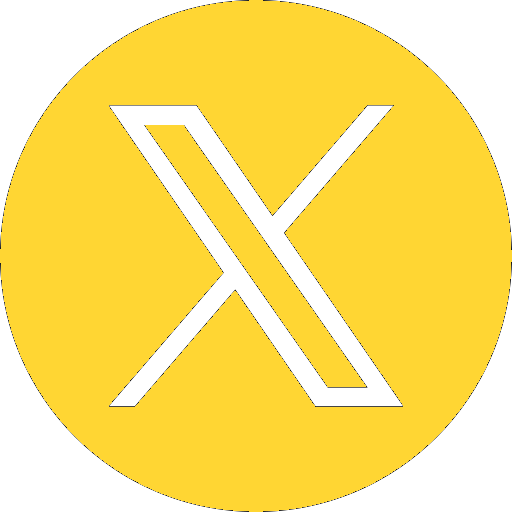
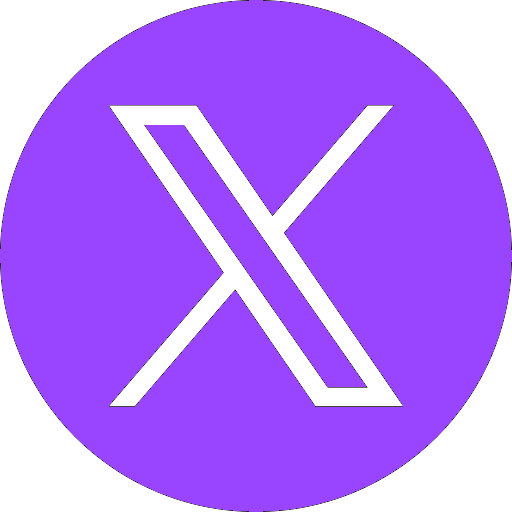
Add files via upload

diff --git a/page4.js b/page4.js
@@ -11,11 +11,11 @@ __SYD["page4"] = () => {
             [
                 $("h2", {
                 style: "font-size:2.5rem; font-weight:700; color:#ffffff; margin-bottom:20px;"
-                }, ["Why Nice $xingsword"]),
+                }, ["Why $xingsworld"]),
                 
                 $("p", {
                 style: "font-size:1.1rem; line-height:1.6; color:#ffffff; max-width:800px;"
-                }, ["From TikTok to the blockchain — Mr. Nice has captured hearts by building incredible homes for his pets. Now, that same spirit of creativity, kindness, and fun lives on in $NICE, the meme coin for dreamers and builders."])
+                }, ["Xing Zhilei built Xing’s World for his son — a playful universe of tiny houses and pets. At the heart of it is Mr. Nice, the cat who stole the show. Now his spirit lives on in MR NICE $xingsworld, a coin made for fun, community, and good vibes."])
             ]),
 
             $("div", {
@@ -34,7 +34,7 @@ __SYD["page4"] = () => {
                             },[],{genericStyle:["bg_cover"]}),
                             $("span", {
                                 style: "font-weight:600;"
-                            }, ["Inspired by Viral Culture – Born from the trend that everyone’s talking about"])
+                            }, ["Built on Culture – Straight from TikTok virality to the blockchain."])
                         ]),
                         
                         $("li",
@@ -46,7 +46,7 @@ __SYD["page4"] = () => {
                             },[],{genericStyle:["bg_cover"]}),
                             $("span", {
                                 style: "font-weight:600;"
-                            }, ["Community-Driven – Powered by the people, growing stronger together."])
+                            }, ["Community-Powered – No big suits, just people having fun and growing together."])
                         ]),
                         
                         $("li",
@@ -70,7 +70,7 @@ __SYD["page4"] = () => {
                             },[],{genericStyle:["bg_cover"]}),
                             $("span", {
                                 style: "font-weight:600;"
-                            }, ["Built for Fun – Memes, rewards, and a movement you can actually enjoy."])
+                            }, ["No Overthinking – It’s memes, it’s vibes, it’s good energy."])
                         ]),
 
                         $("li",
@@ -82,7 +82,7 @@ __SYD["page4"] = () => {
                             },[],{genericStyle:["bg_cover"]}),
                             $("span", {
                                 style: "font-weight:600;"
-                            }, ["Giving Back – Future plans to support pet shelters and creative communities."])
+                            }, ["For the People (and Pets) – A coin that’s about fun first, charts second."])
                         ])
                     ])
                 ]),

diff --git a/page2.js b/page2.js
@@ -59,21 +59,21 @@ __SYD.buyNowBtn = () =>{
 
 
 __SYD.about_text = () =>{
-    return $('p',{style:`border-right:5px solid #000000;border-bottom:5px solid #000000;font-size:${__p(['page2' , '__font'],{2:'20px'})['2']};line-height: unset;width:100%;max-width:800px;text-align:center;font-weight:100;padding:${__p(["page2" , "__flex"],"row") === "row" ? "50px" : "20px"};background:#4AB6E8;border-radius:30px;color:#ffffff;display:flex;flex-direction:column;gap:15px;`},[
+    return $('p',{style:`border-right:5px solid #000000;border-bottom:5px solid #000000;font-size:${__p(['page2' , '__font'],{2:'20px'})['2']};line-height: unset;width:100%;max-width:800px;text-align:center;font-weight:100;padding:${__p(["page2" , "__flex"],"row") === "row" ? "50px" : "20px"};background:#14F195;border-radius:30px;color:#000000;display:flex;flex-direction:column;gap:15px;`},[
         $(
             "p",
             {
                 style:"font-size:20px;line-height:50px;border-bottom:1px solid;text-align:left;"
             }
             ,[
-                "About $xingsword"
+                "About $xingsworld"
             ]
         ),
         $("p" , {style:`text-align:left;font-size:16px;`} , [
-            `$xingsword ain’t your boring, suit-and-tie crypto project. It’s a meme coin inspired by Mr. Nice, the dude who went viral for building crazy houses for his pets. Just like him, we’re all about good vibes, creativity, and building something cool together`
+            `Mr. Nice isn’t just any cat—he’s the fluffy superstar who somehow ended up with his own houses, shops, and even VIP rooms (because why not?). While most cats are happy with a cardboard box, Mr. Nice lives in a world of mini-mansions built just for him. From tiny supermarkets to little cinemas, he explores it all with the calm confidence of someone who knows he’s in charge.`
         ]),
         $("p" , {style:`text-align:left;font-size:16px;`} , [
-            `This coin is for the people who love memes, community, and maybe a little moon-madness 🚀. No overcomplicated promises — just a fun ride, a strong fam, and the chance to be part of the next big internet story.`
+            `This site is our little corner of the internet dedicated to his adventures, his lifestyle, and, honestly, just the pure comedy of watching a cat live better than most humans. Welcome to the world of Mr. Nice—you’re in for a treat.`
         ]),
         __SYD.contactBtn(),
         __SYD.copyCA()

diff --git a/page3.js b/page3.js
@@ -5,7 +5,7 @@ __SYD.page3 = function()
     return $(
         "div",
         {
-            style:"display:flex;flex-direction:column;gap:20px;width:100%;padding:15px;padding-bottom:50px;padding-top:80px;font-family:font2;position:relative;min-height:100vh;width:100vw;position:relative;background-color:#4AB6E8;",
+            style:"display:flex;flex-direction:column;gap:20px;width:100%;padding:15px;padding-bottom:50px;padding-top:80px;font-family:font2;position:relative;min-height:100vh;width:100vw;position:relative;background-color:#14F195;",
             id:'about'
         },
         [
@@ -36,7 +36,7 @@ __SYD.canva1 = function()
 {
     return $(
         "canvas",
-        {style:`height:${__p(["page3","mobile"],false)?"300px":"400px"};width:${__p(["page3","mobile"],false)?"100%":"55%"};background:#FFD633;border:5px solid #000;border-radius:20px;align-self:flex-start;`},[],{type:"canva1"}
+        {style:`height:${__p(["page3","mobile"],false)?"300px":"400px"};width:${__p(["page3","mobile"],false)?"100%":"55%"};background:#9945FF;border:5px solid #000;border-radius:20px;align-self:flex-start;`},[],{type:"canva1"}
     )
 }
 
@@ -44,6 +44,6 @@ __SYD.canva2 = function()
 {
     return $(
         "canvas",
-        {style:`height:${__p(["page3","mobile"],false)?"300px":"500px"};width:${__p(["page3","mobile"],false)?"100%":"55%"};max-width:${__p(["page3","mobile"],false)?"unset":"500px"};background:#FFD633;border:5px solid #000;border-radius:20px;align-self:flex-end;transform:${__p(["page3","mobile"],false)?"unset":"translateY(-30px)"};`},[],{type:"canva2"}
+        {style:`height:${__p(["page3","mobile"],false)?"300px":"500px"};width:${__p(["page3","mobile"],false)?"100%":"55%"};max-width:${__p(["page3","mobile"],false)?"unset":"500px"};background:#9945FF;border:5px solid #000;border-radius:20px;align-self:flex-end;transform:${__p(["page3","mobile"],false)?"unset":"translateY(-30px)"};`},[],{type:"canva2"}
     )
 }

diff --git a/navBar.js b/navBar.js
@@ -6,7 +6,7 @@ __SYD["navbar"] = () => {
     "nav",
     {
       style:
-        `display:flex;justify-content:${__p(["navbar" , "mobile"],false)?"space-between":"center"};align-items:center;padding:15px 40px;background-color:#FFD633;color:#000000;position:fixed;top:${__p(["navbar" , "float"],false) ? "10px" : "0px"};left:50%;transform:translateX(-50%);width:${__p(["navbar" , "float"],false) ? "calc(100% - 20px)" : "100%"};z-index:99999;gap:30px;border-radius:${__p(["navbar" , "float"],false) ? "20px" : "0px"};border-bottom:2px solid #000;`,
+        `display:flex;justify-content:${__p(["navbar" , "mobile"],false)?"space-between":"center"};align-items:center;padding:15px 40px;background-color:#9945FF;color:#000000;position:fixed;top:${__p(["navbar" , "float"],false) ? "10px" : "0px"};left:50%;transform:translateX(-50%);width:${__p(["navbar" , "float"],false) ? "calc(100% - 20px)" : "100%"};z-index:99999;gap:30px;border-radius:${__p(["navbar" , "float"],false) ? "20px" : "0px"};border-bottom:2px solid #000;`,
     },
     [
       // Left: logo
@@ -30,7 +30,7 @@ __SYD["navbar"] = () => {
                     { style: __sC["nav_links"]({method:"add",style:{alignItems:`${__p(["navbar" , "mobile"],false)?"flex-start":"center"}`,flexDirection:`${__p(["navbar" , "mobile"],false)?"column":"row"}`,width:"100%",justifyContent:"center"}}) },
                     [
                         $("a", { href: "#about" , style:__sC["a_style"]()}, ["About"]),
-                        $("a", { href: "#why" , style:__sC["a_style"]()}, ["Why $xingsword"]),
+                        $("a", { href: "#why" , style:__sC["a_style"]()}, ["Why $xingsworld"]),
                         // $("a", { href: "#" , style:__sC["a_style"]()}, ["Why Us"]),
                         // $("a", { href: "#" , style:__sC["a_style"]()}, ["Tokenomics"]),
                         // $("a", { href: "#" , style:__sC["a_style"]()}, ["Roadmap"]),

diff --git a/page5.js b/page5.js
@@ -5,7 +5,7 @@ __SYD.page5 = function()
     return $(
         "div",
         {
-            style:"display:flex;justify-content:center;align-items:center;gap:20px;width:100%;padding:15px;padding-bottom:50px;padding-top:80px;font-family:font2;position:relative;min-height:100vh;width:100vw;position:relative;background-color:transparent;background-image:url(./assets/p5.png);",
+            style:"display:flex;justify-content:center;align-items:flex-start;gap:20px;width:100%;padding:15px;padding-bottom:50px;padding-top:80px;font-family:font2;position:relative;min-height:100vh;width:100vw;position:relative;background-color:transparent;background-image:url(./assets/p5.png);",
             id:'about'
         },
         [
@@ -25,7 +25,7 @@ __SYD.page5 = function()
 }
 
 __SYD.p5_text = () =>{
-    return $('p',{style:`height:fit-content;border-right:5px solid #000000;border-bottom:5px solid #000000;font-size:${__p(['page5' , '__font'],{2:'20px'})['2']};line-height: unset;width:100%;max-width:800px;text-align:center;font-weight:100;padding:${__p(["page5" , "__flex"],"row") === "row" ? "50px" : "20px"};background:#FFD633;border-radius:30px;color:#000000;display:flex;flex-direction:column;gap:15px;`},[
+    return $('p',{style:`height:fit-content;border-right:5px solid #000000;border-bottom:5px solid #000000;font-size:${__p(['page5' , '__font'],{2:'20px'})['2']};line-height: unset;width:100%;max-width:800px;text-align:center;font-weight:100;padding:${__p(["page5" , "__flex"],"row") === "row" ? "50px" : "20px"};background:#9945FF;border-radius:30px;color:#000000;display:flex;flex-direction:column;gap:15px;`},[
         $("p" , {style:`text-align:left;font-size:16px;`} , [
             `That’s the story. $NICE is here, and it’s only getting bigger. We’re not just another coin — we’re a whole mood.`
         ]),

diff --git a/sliderEl.js b/sliderEl.js
@@ -18,7 +18,7 @@ __SYD.sliderMain = () =>{
             $(
                 'div',
                 {
-                    style:'height:100%;min-width:fit-content;background:#fdd523;display:flex;column-gap:30px;padding:0 15px;',
+                    style:'height:100%;min-width:fit-content;background:#9945FF;display:flex;column-gap:30px;padding:0 15px;',
                     class:"slider_anime"
                 },
                 [
@@ -47,7 +47,7 @@ __SYD.sliderMain2 = () =>{
             $(
                 'div',
                 {
-                    style:'height:100%;min-width:fit-content;background:#fdd523;display:flex;column-gap:30px;padding:0 15px;',
+                    style:'height:100%;min-width:fit-content;background:#9945FF;display:flex;column-gap:30px;padding:0 15px;',
                     class:"slider_anime"
                 },
                 [
@@ -65,8 +65,8 @@ __SYD.addNavElement = () =>{
             style:'height:100%;width:fit-content;display:flex;column-gap:15px;align-items:center'
         },
         [
-            $('img',{height:'50px',width:'50px',alt:'dog',style:"border-radius:50%;min-height:50px;min-width:50px;",src:'./assets/p1.png'},[]),
-            $('h2',{style:'font-weight:900;width:max-content;'},['$xingsword'])
+            $('div',{height:'50px',width:'50px',style:"border-radius:50%;min-height:50px;min-width:50px;background-image:url(./assets/p1.png);"},[],{genericStyle:["bg_cover"]}),
+            $('h2',{style:'font-weight:900;width:max-content;'},['$xingsworld'])
         ]
     )
 }

diff --git a/page1.js b/page1.js
@@ -35,9 +35,10 @@ __SYD["page1"] = () => {
                     [
                     $(
                         "h1",
-                        { style: __sC["hero_title"]({method:"add",style:{color:"#FFD633"}}) , class:"hero_title" },
+                        { style: __sC["hero_title"]({method:"add",style:{color:"#9945FF"}}) , class:"hero_title" },
                         [
                             $("p",{style:__sC["stroked"]()},["MR NICE"]),
+                            $("p",{style:__sC["stroked"]()+"font-size:18px;font-weight:700;"},["($xingsworld)"]),
                             $(
                                 "div",
                                 { style: __sC["nav_actions"]() },
@@ -55,7 +56,7 @@ __SYD["page1"] = () => {
                                     ),
                                 ]
                             ),
-                            // $("p",{},["$xingsword"])
+                            // $("p",{},["$xingsworld"])
                         ]
                     ),
                     ]

diff --git a/footer.js b/footer.js
@@ -4,7 +4,7 @@ __SYD.footer = function()
 {
     return $(
         "div",
-        {style:"height:fit-content;width:100%;padding:15px;display:flex;justify-content:center;align-items:cente;background-color:#FFD633;border-top:3px solid #000000;"},
+        {style:"height:fit-content;width:100%;padding:15px;display:flex;justify-content:center;align-items:cente;background-color:#9945FF;border-top:3px solid #000000;"},
         [
             __SYD.contactBtn_footer()
         ]

diff --git a/index.html b/index.html
@@ -18,7 +18,7 @@
     <meta name="twitter:image" content="./assets/p1.png"> <!-- Use same preview or logo image -->
 
 
-    <title>Mr NICE $xingsword</title>
+    <title>Mr NICE $xingsworld</title>
     <link rel="stylesheet" href="./index.css">
 </head>
 <body>
